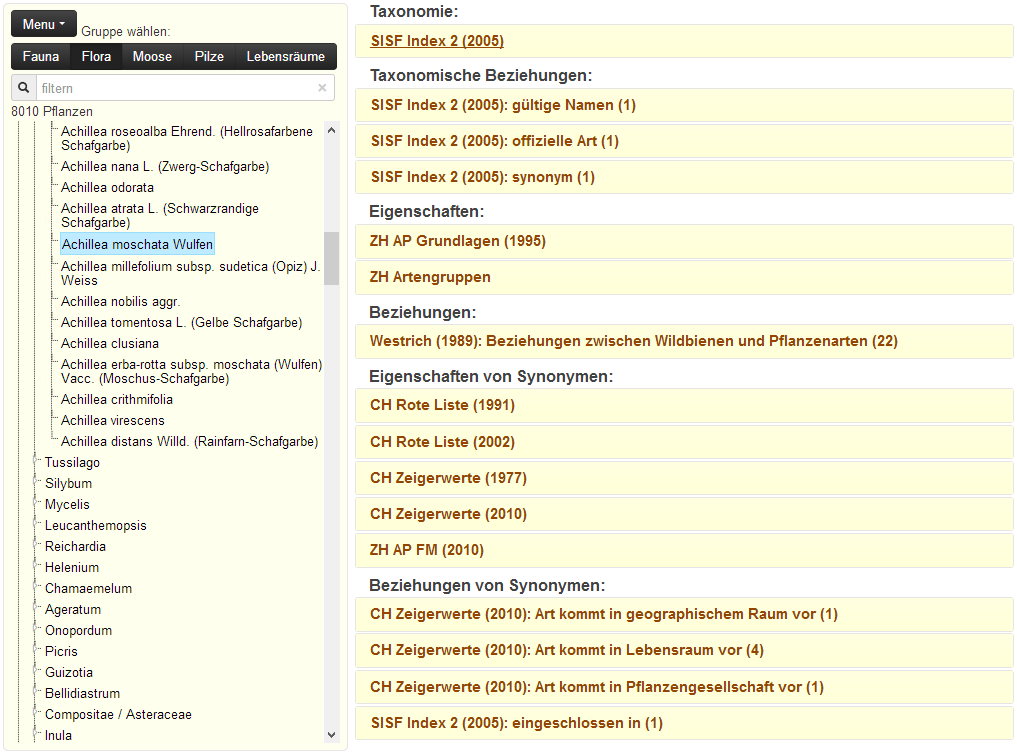
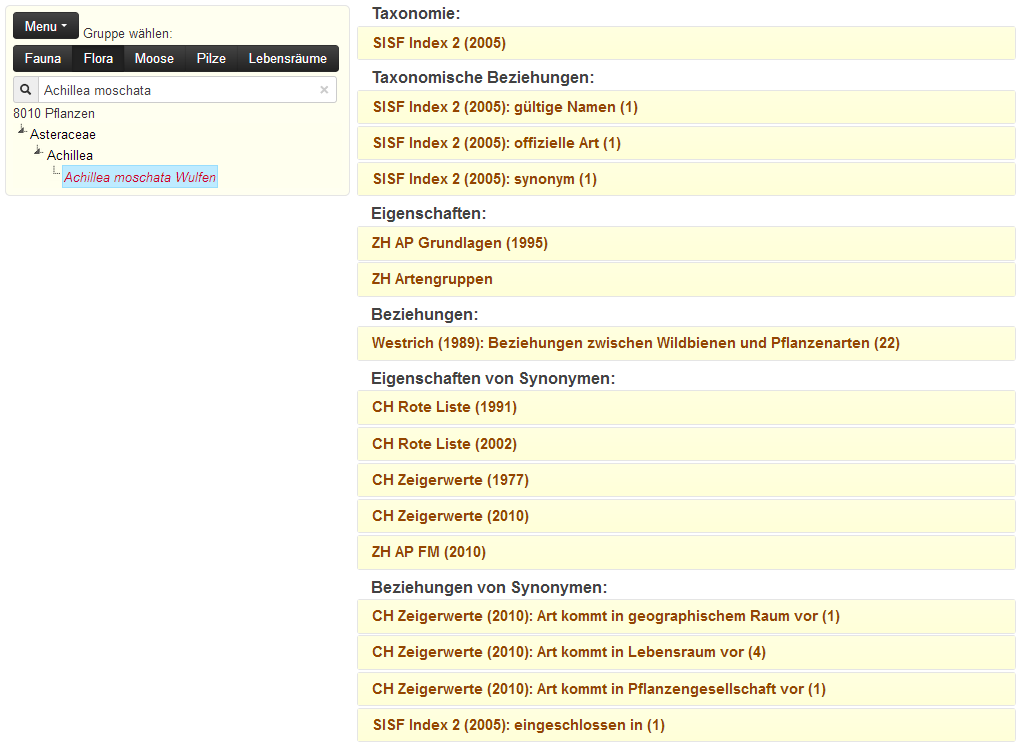
readme aktualisiert

Changed region(s): [[0.0, 0.0, 1.0, 1.0]]

diff --git a/README.md b/README.md
@@ -146,15 +146,15 @@ Wenn eine von beiden obigen Fragen mit ja beantwortet wurde, kann z.B. folgender
 #Benutzeroberfläche
 ###Erscheinungsbild
 
-<img src="http://www.barbalex.ch/artendb/achillea_moschata.png" alt="Beispiel Achillea moschata" width="100%">
+<img src="http://www.barbalex.ch/artendb/objekt.png" alt="Beispiel Aconitum napellus auct." width="100%">
 
 **Hauptelemente**
 
-Mit den schwarzen Schaltflächen wird die Gruppe gewählt. Danach erscheinen darunter ein Suchfeld und ein Hierarchiebaum. Rechts ist das Formular, in dem Daten angezeigt werden. Navigiert werden kann mit dem Hierarchiebaum und mit dem Suchfeld. Zusätzlich sollen alle Verweise zu Objekten linkbar sein.
+Mit den schwarzen Schaltflächen wird die Gruppe gewählt. Danach erscheinen darunter ein Suchfeld und ein Hierarchiebaum. Rechts werden die Informationen zum Objekt angezeigt. Navigiert werden kann mit dem Hierarchiebaum und mit dem Suchfeld. Zusätzlich sind alle Verweise zu Objekten linkbar.
 
 **Suchfeld**
 
-Gesucht werden kann nach wissenschaftlichem und nach Deutschem Namen.
+Gesucht werden kann nach dem vollständigen Namen.
 
 **Hierarchiebaum**
 
